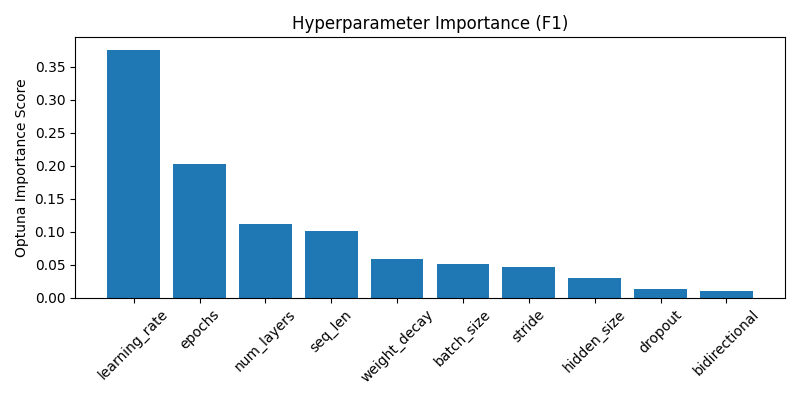
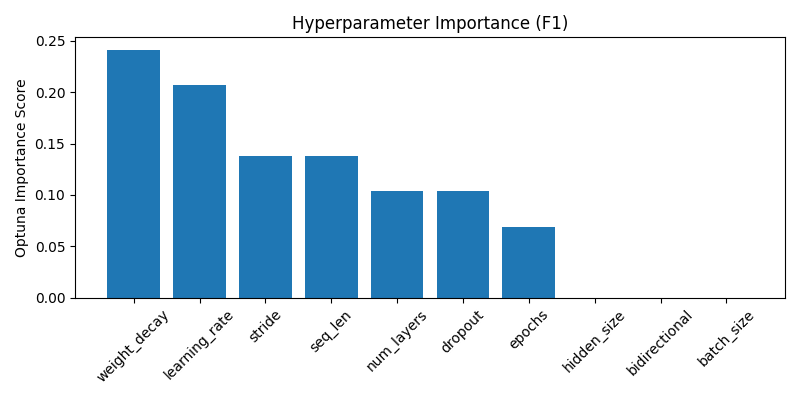
tool_runner and eval func-- silent errors

diff --git a/scripts/tool_runner.py b/scripts/tool_runner.py
@@ -1,22 +1,58 @@
 import argparse
+import pandas as pd
+from pathlib import Path
+import json 
+
+from src.paths import DATA_DIR, CONFIG_DIR
 from src.helper import eval_best_config
+
 # Add more tools later!
 
 def main():
-    parser = argparse.ArgumentParser(description='Sleepwave CLI Tool')
-    subparser = parser.add_subparsers(dest='command') 
+    parser = argparse.ArgumentParser(description='SleepWave CLI Tool')
+    subparsers = parser.add_subparsers(dest='command', required=True) 
 
     # Subcommand: eval_best_config
-    eval_parser = subparser.add_parser('eval', help='Evaluate saved best configs on a target subject')
-    eval_parser.add_argument('--config-path', type=str, required=True, help='Path to saved config JSON')
+    eval_parser = subparsers.add_parser('eval-best', help='Evaluate saved best configs on a target subject')
+    eval_parser.add_argument('--config', type=str, required=True, help='Name of saved config file (ex. best_config_7242.json)')
     eval_parser.add_argument('--subject', type=int, required=True, help='Subject ID to eval on')
+    eval_parser.add_argument('--binary', action='store_true', help='Use binary REM/NREM labels')
+    eval_parser.add_argument('--save', action='store_true', help='Save results to md and csv')
 
     args = parser.parse_args()
 
-    if args.command == 'eval':
-        eval_best_config(args.config_path, args.subject)
-    else:
-        parser.print_help()
+    # Eval: 
+
+    if args.command == 'eval_best':
+        config_path = CONFIG_DIR / args.config
+        df = pd.read_csv(DATA_DIR / 'eeg_hypno.csv')
+
+    with open(config_path, 'r') as f:
+        config = json.load(f)
+
+    target_col = 'binary_label' if args.binary else 'label'
+    non_feat_cols = {'label', 'binary_label', 'subject_id'}
+    feature_cols = [col for col in df.columns if col not in non_feat_cols]
+
+    static_config = {
+        'df': df,
+        'feature_cols': feature_cols,
+        'label_col': target_col,
+        'is_binary': args.binary
+    }
+
+    subject_list = [args.subject]
+
+    results_df = eval_best_config(
+        config=config,
+        subject_ids=subject_list,
+        static_config=static_config,
+        save_md=args.save,
+        save_csv=args.save
+    )
+
+    for r in results_df.iterrows():
+        print(f"\n📊 Subject {r['subject']} | F1: {r['f1']:.4f} | Accuracy: {r['accuracy']:.4f} | Threshold: {r['threshold']}")
 
 if __name__ == '__main__':
     main()

diff --git a/sleep_wave/reports/study_7242_2025-05-23/optuna_summary_2025-05-23.md b/sleep_wave/reports/study_7242_2025-05-23/optuna_summary_2025-05-23.md
@@ -1,37 +1,34 @@
 # Optuna LSTM Tuning Summary
 - Date: 2025-05-23
 - Subject: 7242
-- Trials: 25
+- Trials: 2
 - Objective: Maximize F1 Score
 
 ---
 
 ## Best Trial
-- **F1 Score**: 0.8273
-- **Threshold**: 0.59
-- **Accuracy**: 0.8302
+- **F1 Score**: 0.5725
+- **Threshold**: 0.53
+- **Accuracy**: 0.5255
 - **Params**
   - `hidden_size`: 64
-  - `num_layers`: 1
-  - `dropout`: 0.13732882308497943
+  - `num_layers`: 3
+  - `dropout`: 0.2994028049210362
   - `bidirectional`: True
-  - `learning_rate`: 0.0006893736626641891
+  - `learning_rate`: 0.003319414023327547
   - `stride`: 4
-  - `seq_len`: 128
+  - `seq_len`: 32
   - `epochs`: 13
-  - `batch_size`: 32
-  - `weight_decay`: 9.911301531041695e-05
+  - `batch_size`: 64
+  - `weight_decay`: 0.005666597524267947
 
 ---
 
 ## Top 5 Trials
 | Trial | F1 Score | Threshold | Accuracy |
 |-------|----------|-----------|----------|
-| 21 | 0.8273 | 0.59 | 0.8302 |
-| 18 | 0.8266 | 0.63 | 0.8258 |
-| 22 | 0.8242 | 0.6 | 0.8247 |
-| 15 | 0.8117 | 0.58 | 0.8094 |
-| 9 | 0.8035 | 0.67 | 0.8047 |
+| 0 | 0.5725 | 0.53 | 0.5255 |
+| 1 | 0.5496 | 0.58 | 0.5126 |
 
 ---
 
